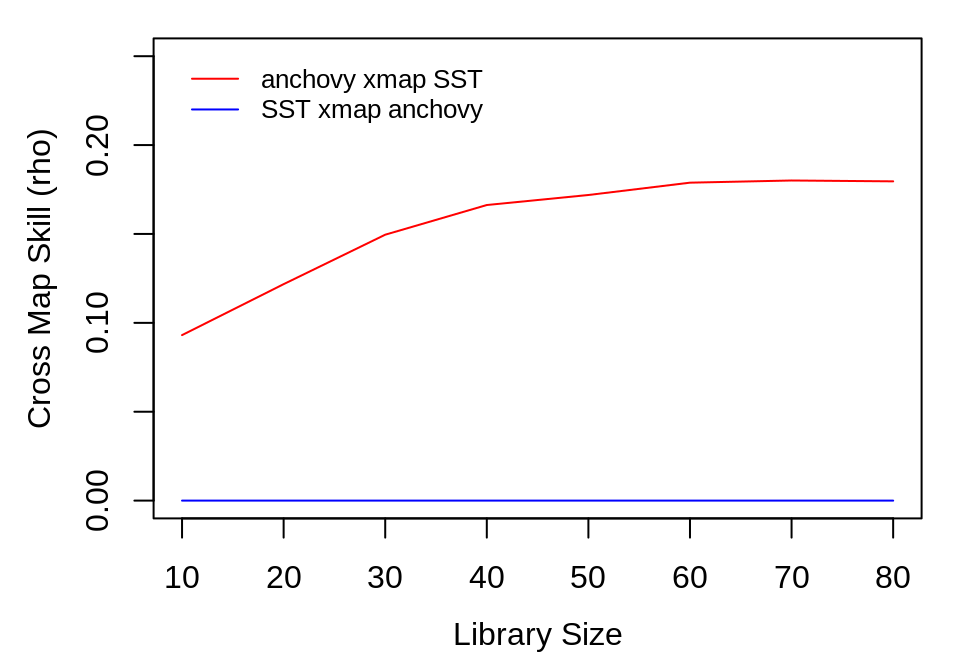
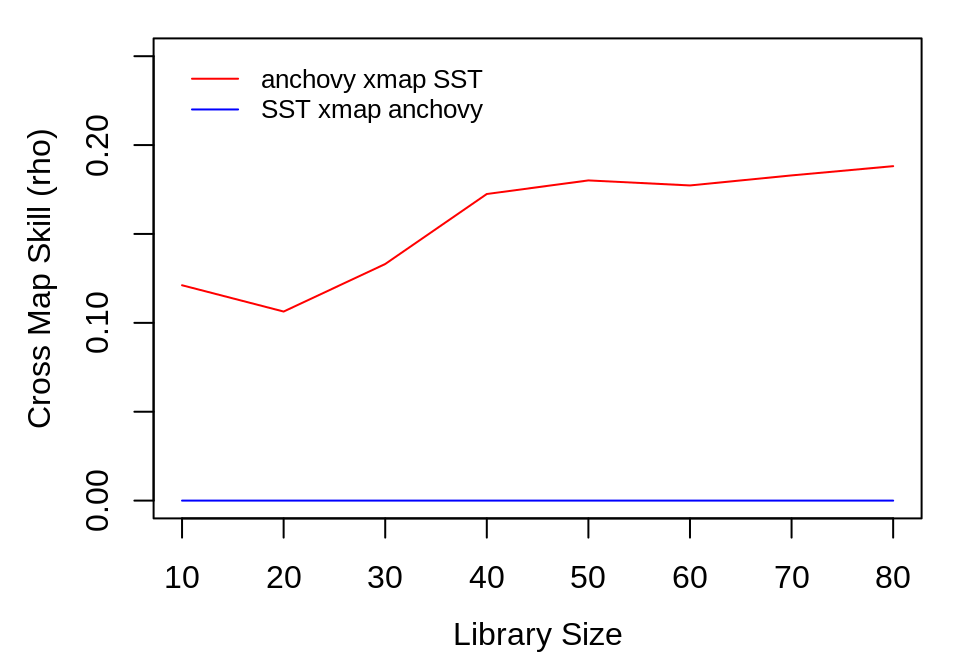
Deploy ha0ye/rEDM to github.com/ha0ye/rEDM.git:gh-pages

diff --git a/articles/rEDM.html b/articles/rEDM.html
@@ -89,7 +89,7 @@
                         <h4 class="author">Ethan Deyle</h4>
                         <h4 class="author">George Sugihara</h4>
             
-            <h4 class="date">2019-07-25</h4>
+            <h4 class="date">2019-07-26</h4>
       
       <small class="dont-index">Source: <a href="https://github.com/ha0ye/rEDM/blob/master/vignettes/rEDM.Rmd"><code>vignettes/rEDM.Rmd</code></a></small>
       <div class="hidden name"><code>rEDM.Rmd</code></div>
@@ -487,9 +487,9 @@
 ##  $ target_column: Factor w/ 1 level "np_sst": 1 1 1 1 1 1 1 1 1 1 ...
 ##  $ lib_size     : num  10 10 10 10 10 10 10 10 10 10 ...
 ##  $ num_pred     : num  76 76 76 76 76 76 76 76 76 76 ...
-##  $ rho          : num  -0.0418 -0.0164 0.2156 -0.2225 -0.1367 ...
-##  $ mae          : num  0.947 1.108 1.085 1.07 0.902 ...
-##  $ rmse         : num  1.19 1.41 1.33 1.29 1.12 ...</code></pre>
+##  $ rho          : num  0.28 -0.32 -0.115 -0.109 0.093 ...
+##  $ mae          : num  0.882 1.02 0.947 0.901 1.054 ...
+##  $ rmse         : num  1.06 1.23 1.2 1.11 1.27 ...</code></pre>
 <p>The output is a data.frame with statistics for each model run (in this case, 100 models at each of 8 library sizes). To interpret the results, we aggregate the cross map performance at each library size using the <code><a href="../reference/ccm_means.html">ccm_means()</a></code> function, which computes a mean value at each unique <code>lib_size</code>. Because average cross map skill less than 0 means there is no prediction skill, (predictions should not be anticorrelated with observations), we set negative values to 0 when plotting.</p>
 <div class="sourceCode" id="cb35"><pre class="sourceCode r"><code class="sourceCode r"><a class="sourceLine" id="cb35-1" data-line-number="1">a_xmap_t_means &lt;-<span class="st"> </span><span class="kw"><a href="../reference/ccm_means.html">ccm_means</a></span>(anchovy_xmap_sst)</a>
 <a class="sourceLine" id="cb35-2" data-line-number="2">t_xmap_a_means &lt;-<span class="st"> </span><span class="kw"><a href="../reference/ccm_means.html">ccm_means</a></span>(sst_xmap_anchovy)</a>

diff --git a/index.html b/index.html
@@ -111,6 +111,7 @@
 <p>OR from github with:</p>
 <div class="sourceCode" id="cb2"><pre class="sourceCode r"><code class="sourceCode r"><a class="sourceLine" id="cb2-1" data-line-number="1"><span class="co"># install.packages("remotes")</span></a>
 <a class="sourceLine" id="cb2-2" data-line-number="2">remotes<span class="op">::</span><span class="kw"><a href="https://www.rdocumentation.org/packages/remotes/topics/install_github">install_github</a></span>(<span class="st">"ha0ye/rEDM"</span>)</a></code></pre></div>
+<p>If you are on Windows, you may need to install <a href="https://cran.r-project.org/bin/windows/Rtools/">Rtools</a> first, so that you have access to a C++ compiler.</p>
 </div>
 <div id="example" class="section level2">
 <h2 class="hasAnchor">

diff --git a/articles/rEDM-coprediction.html b/articles/rEDM-coprediction.html
@@ -86,7 +86,7 @@
       <h1>co-prediction: using rEDM to quantify dynamic similarity</h1>
                         <h4 class="author">Hao Ye</h4>
             
-            <h4 class="date">2019-07-25</h4>
+            <h4 class="date">2019-07-26</h4>
       
       <small class="dont-index">Source: <a href="https://github.com/ha0ye/rEDM/blob/master/vignettes/rEDM-coprediction.Rmd"><code>vignettes/rEDM-coprediction.Rmd</code></a></small>
       <div class="hidden name"><code>rEDM-coprediction.Rmd</code></div>

diff --git a/articles/rEDM-time-delay-ccm.html b/articles/rEDM-time-delay-ccm.html
@@ -86,7 +86,7 @@
       <h1>Using rEDM to quantify time delays in causation</h1>
                         <h4 class="author">Hao Ye</h4>
             
-            <h4 class="date">2019-07-25</h4>
+            <h4 class="date">2019-07-26</h4>
       
       <small class="dont-index">Source: <a href="https://github.com/ha0ye/rEDM/blob/master/vignettes/rEDM-time-delay-ccm.Rmd"><code>vignettes/rEDM-time-delay-ccm.Rmd</code></a></small>
       <div class="hidden name"><code>rEDM-time-delay-ccm.Rmd</code></div>
